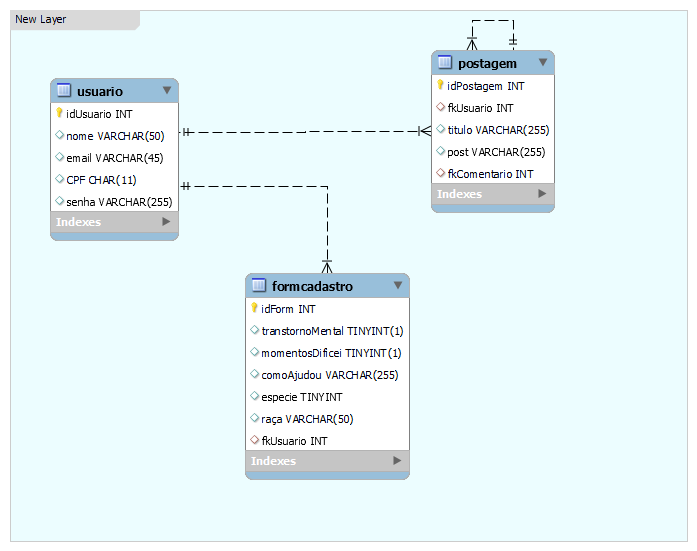
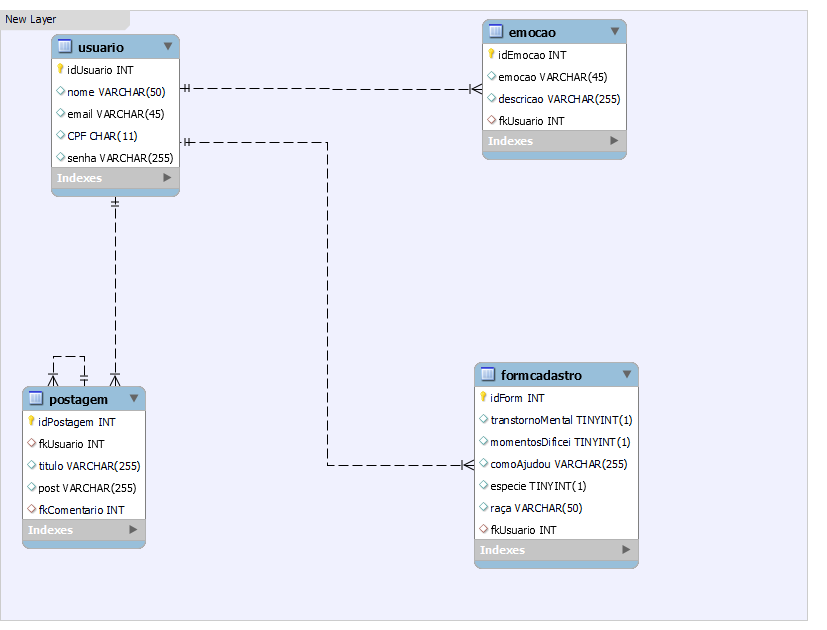
Subindo novo banco de dados e mudança do script da dash

diff --git a/public/dashboard.html b/public/dashboard.html
@@ -6,7 +6,7 @@
     <title>SoulPaws - Dashboard</title>
     <link rel="stylesheet" href="/public/style/dashboard.css">
     <link rel="icon" href="assets/logo/Soul (1).png">
-    <script src="https://cdnjs.cloudflare.com/ajax/libs/Chart.js/4.4.1/chart.umd.min.js"></script>
+    <script src="https://cdn.jsdelivr.net/npm/chart.js"></script>
 </head>
 <body>
     <div class="logo">
@@ -19,7 +19,6 @@
             <div class="left">
                 <a href="forum.html">FORUM</a>
                 <a href="diarioEmocoes.html">EMOÇÕES</a>
-                <a href="quiz.html">QUIZES</a>
                 <a href="perfil.html">PERFIL</a>
                 <a href="dashboard.html">DASHBOARD</a>
 
